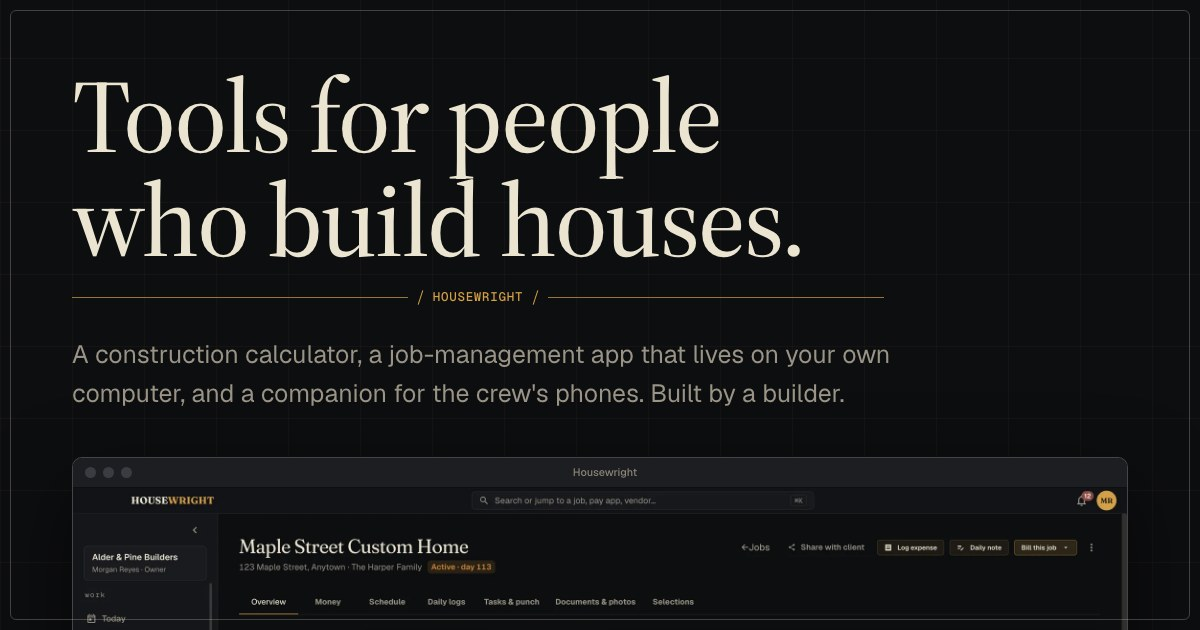
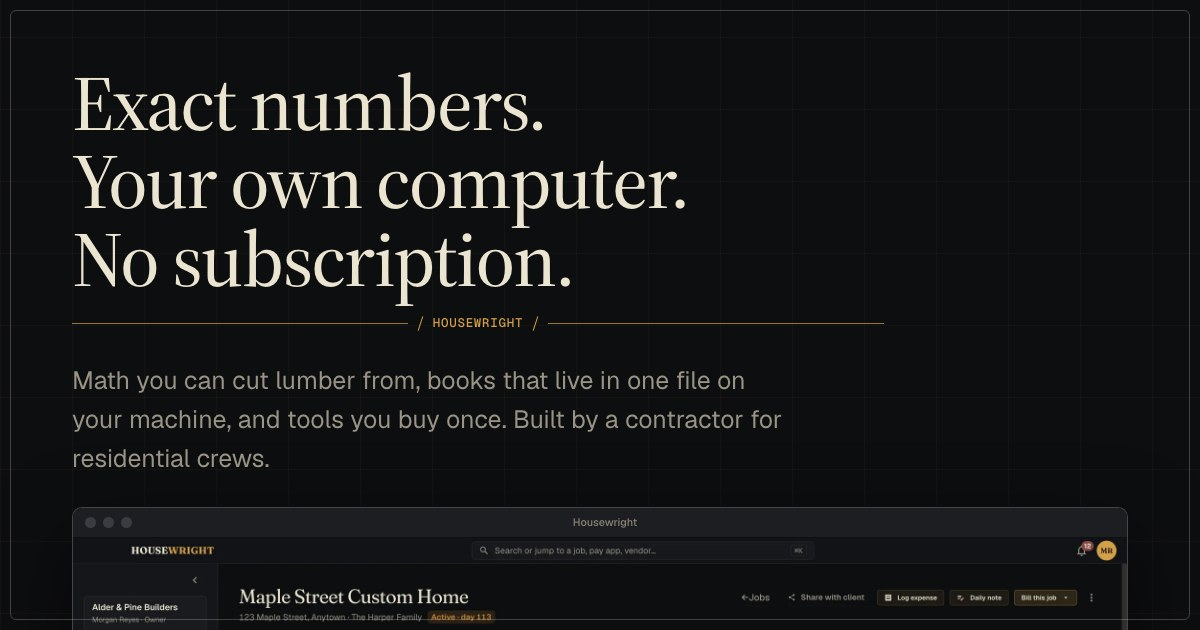
Publish housewright-website 1a4b820 — new hero, Built by a builder

diff --git a/index.html b/index.html
@@ -3,9 +3,9 @@
 <head>
 <meta charset="utf-8">
 <meta name="viewport" content="width=device-width, initial-scale=1">
-<title>Housewright — tools for people who build houses</title>
+<title>Housewright — exact numbers, your own computer, no subscription</title>
 <meta name="description" content="Housewright makes software for residential builders: a construction calculator with exact feet-inch-fraction math, a job-management app that lives on your own computer, and a companion for the crew's phones.">
-<meta property="og:title" content="Housewright — tools for people who build houses">
+<meta property="og:title" content="Housewright — exact numbers, your own computer, no subscription">
 <meta property="og:description" content="A construction calculator, a job-management desktop app, and a companion for the crew's phones. Built by a builder.">
 <meta property="og:image" content="https://housewright.app/assets/img/og.jpg">
 <meta property="og:url" content="https://housewright.app/">
@@ -36,9 +36,9 @@
 <main>
 <section class="hero" data-sheet="A-0 Cover sheet">
   <div class="wrap">
-    <h1 id="hero-title">Tools for people who build houses.</h1>
+    <h1 id="hero-title">Exact numbers. Your own computer. No subscription.</h1>
     <div class="dim" data-measure="#hero-title" aria-hidden="true"><span class="tick"></span><i></i><span class="tick"></span></div>
-    <p class="lede">A housewright is someone who builds houses. We make the software for them: <strong>a construction calculator</strong> that does exact feet-and-inches math, <strong>a job-management app</strong> that lives on your own computer, and <strong>a companion</strong> for the crew's phones. Built by a builder.</p>
+    <p class="lede">Housewright makes construction software the way a builder would: <strong>math you can cut lumber from</strong>, <strong>books that live in one file on your machine</strong>, and <strong>tools you buy once</strong>. Built by a contractor for residential crews.</p>
     <div class="actions"><a class="btn" href="#updates">Tell me when they ship</a><a class="btn ghost" href="#calc">See what they do</a></div>
 
     <div class="hero-stage">
@@ -171,6 +171,13 @@
         <div class="phone c plot" style="--pw:clamp(150px,19vw,270px);--d:.25s;margin-top:70px"><img src="assets/img/companion/sheet.webp" alt="Companion: drawing sheet A-101 with the office's markups and revision history" width="800" height="1739" decoding="async"></div>
       </div>
     </div>
+  </div>
+</section>
+
+<section id="builder" data-sheet="A-3.9 Built by a builder">
+  <div class="wrap cols" style="align-items:center">
+    <div style="grid-column:span 5"><div class="sheet-head"><b>Who makes it</b></div><h2>Built by a builder.</h2></div>
+    <div style="grid-column:span 7"><p class="lede">A housewright is someone who builds houses. These are a construction calculator, a job-management app and a crew companion, made by a general contractor who got tired of software written for someone else. Exact math, real drawings, your data on your own machine, and no monthly bill to keep it.</p></div>
   </div>
 </section>
 
